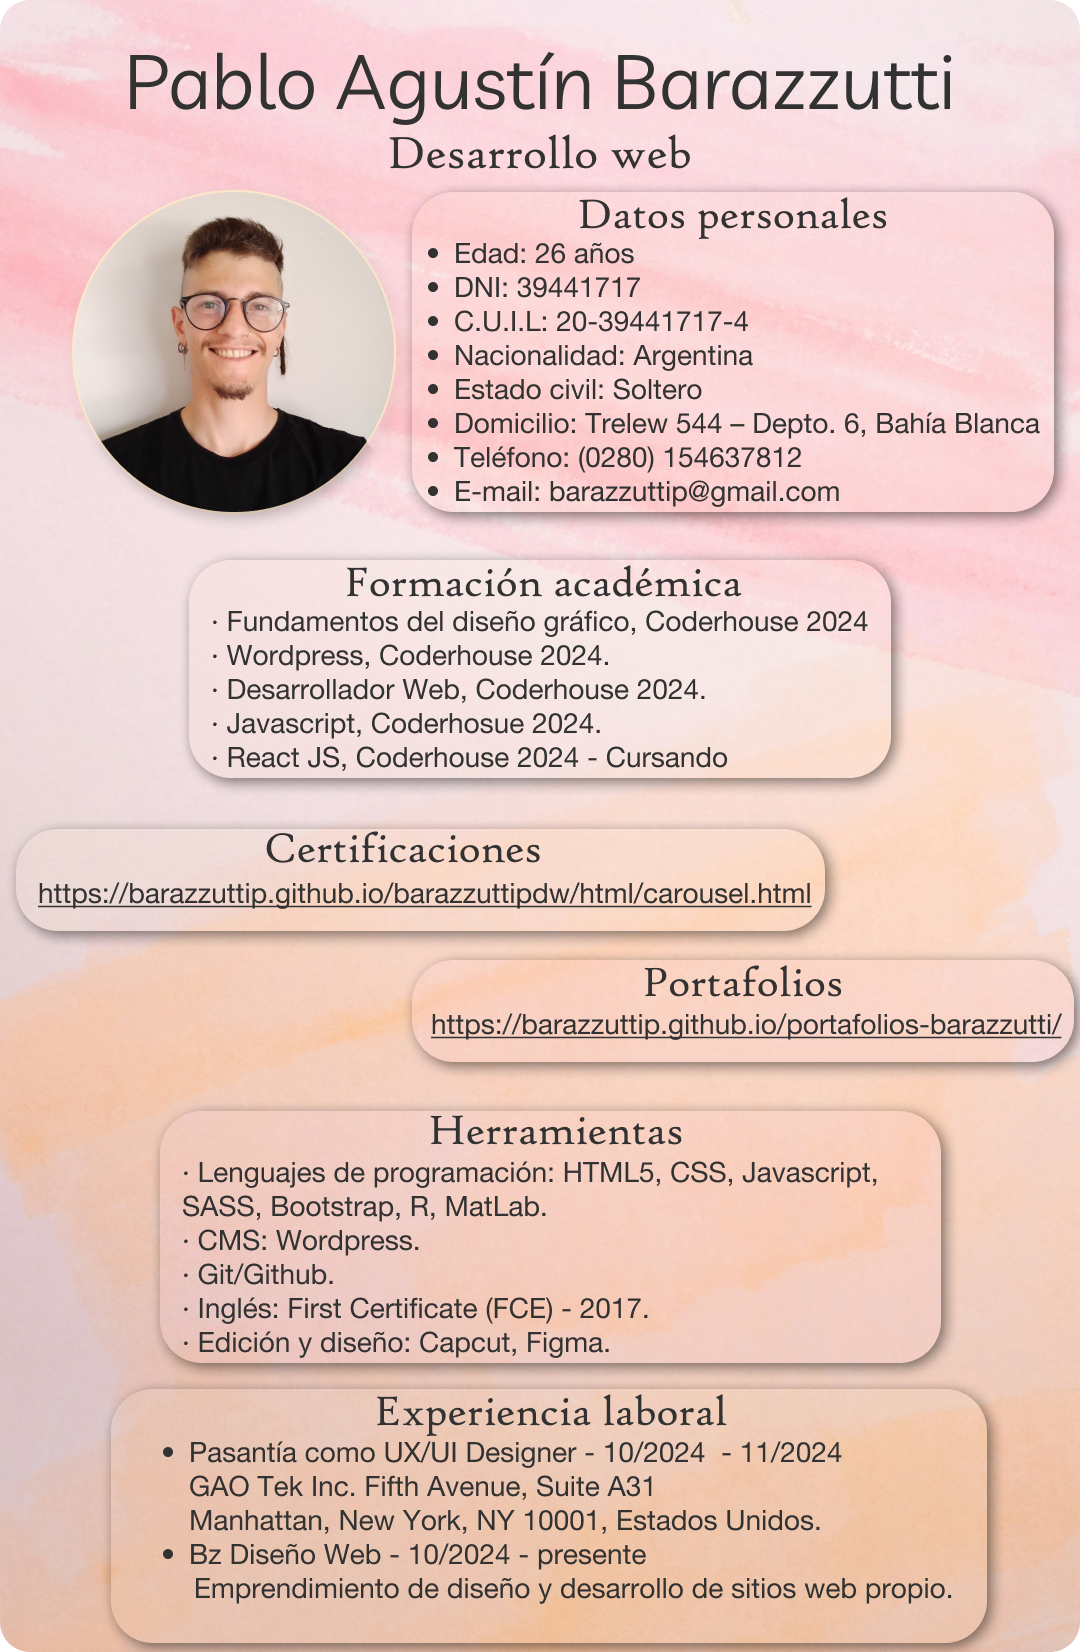
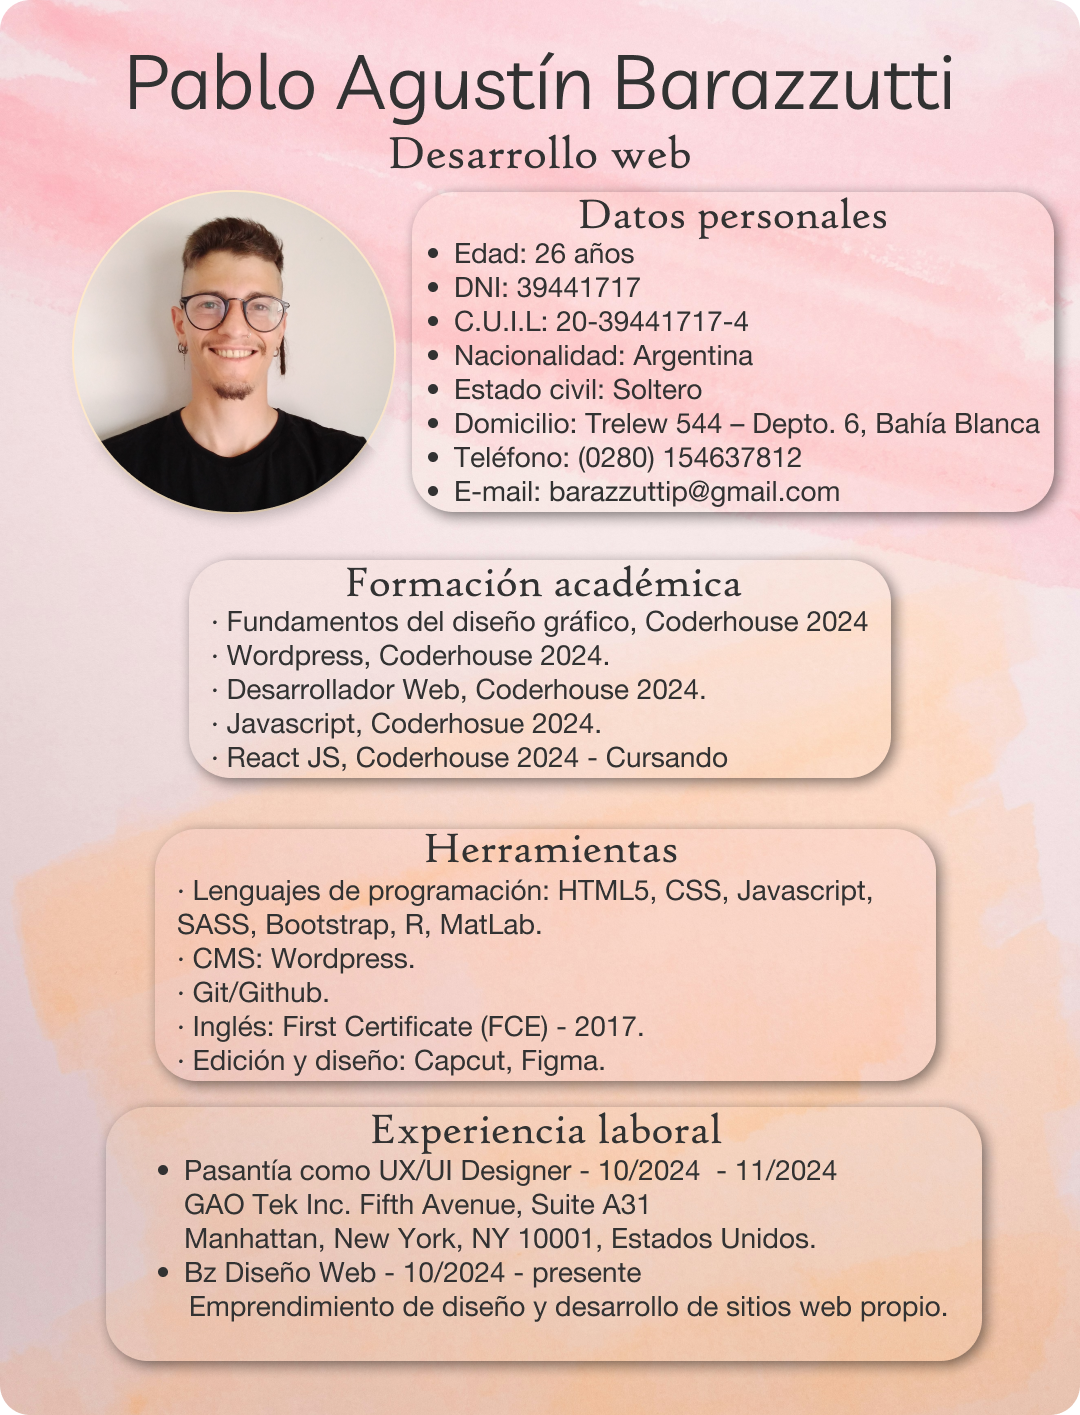
portaf final 27/1

diff --git a/scss/layouts/_body.scss b/scss/layouts/_body.scss
@@ -215,16 +215,32 @@
         object-fit: contain;
     }
 }
+.modal-cont2 {
+    padding: 15px;
+    display: flex;
+    justify-content: center;
+    align-items: center;
+    // background-color: $color;
+    // background-image: linear-gradient(to top, $color, $soft);
+    border-radius: 12px;
+    // width: 256px !important;
+    img {
+        object-fit: contain;
+        width: 35%;
+    }
+}
+
 .acercadecont {
     // margin-top: 54px ;
     display: flex;
-    background-image:linear-gradient(to bottom, $color, #fff);
+    background-image: linear-gradient(to bottom, $color, #fff);
     align-items: center;
     justify-content: center;
     margin-bottom: 24px;
     padding-top: 24px;
     padding-bottom: 48px;
 }
+
 .acerca-cont {
     border-radius: 14px;
     display: flex;
@@ -234,22 +250,26 @@
     padding-top: 54px;
     align-items: center;
     justify-content: center;
-    .acerca-tit{
+
+    .acerca-tit {
         font-family: $PrimaryFont;
         color: $soft;
         font-size: 36px;
         font-weight: 500;
     }
+
     .acerca-txt {
         font-family: $TryFont;
         font-size: 24px;
         font-weight: 400;
         color: $dark;
     }
+
     .acerca-btn-cont {
         display: flex;
         width: 100%;
         justify-content: space-around;
+
         button {
             padding: 4px;
             font-family: $TryFont;
@@ -258,24 +278,32 @@
             box-shadow: 0 4px 12px #000000;
             border-radius: 14px;
         }
-        .btn1{
+
+        .btn1 {
             background-color: $color;
+            // background-image: linear-gradient(to bottom, $color, $soft);
             color: $soft;
             padding-left: 20px;
             padding-right: 20px;
+
             &:hover {
-                background-color: $soft;
-                color: $color;        
+                // background-color: $soft;
+                background-image: linear-gradient(to bottom, $color, $dark);
+                color: $soft;
             }
         }
-        .btn2{
+
+        .btn2 {
             background-color: $soft;
+            // background-image: linear-gradient(to bottom, $color, $soft);
             color: $color;
-            padding-left: 6px;
-            padding-right: 6px;
+            padding-left: 16px;
+            padding-right: 16px;
+
             &:hover {
-                background-color: $color;
-                color: $soft;        
+                // background-color: $color;
+                background-image: linear-gradient(to top, $color, $soft);
+                color: $dark;
             }
         }
     }

diff --git a/css/style.css b/css/style.css
@@ -42,6 +42,8 @@
   transition: background-color 0.5s ease;
   border-radius: 14px;
   padding: 5px;
+  padding-left: 16px;
+  padding-right: 16px;
 }
 .nav-cont ul li a:hover {
   color: #008080;
@@ -242,6 +244,18 @@
   object-fit: contain;
 }
 
+.modal-cont2 {
+  padding: 15px;
+  display: flex;
+  justify-content: center;
+  align-items: center;
+  border-radius: 12px;
+}
+.modal-cont2 img {
+  object-fit: contain;
+  width: 35%;
+}
+
 .acercadecont {
   display: flex;
   background-image: linear-gradient(to bottom, #008080, #fff);
@@ -294,18 +308,18 @@
   padding-right: 20px;
 }
 .acerca-cont .acerca-btn-cont .btn1:hover {
-  background-color: #EBEBEB;
-  color: #008080;
+  background-image: linear-gradient(to bottom, #008080, #303030);
+  color: #EBEBEB;
 }
 .acerca-cont .acerca-btn-cont .btn2 {
   background-color: #EBEBEB;
   color: #008080;
-  padding-left: 6px;
-  padding-right: 6px;
+  padding-left: 16px;
+  padding-right: 16px;
 }
 .acerca-cont .acerca-btn-cont .btn2:hover {
-  background-color: #008080;
-  color: #EBEBEB;
+  background-image: linear-gradient(to top, #008080, #EBEBEB);
+  color: #303030;
 }
 
 .modalBtn {

diff --git a/index.html b/index.html
@@ -103,8 +103,10 @@
                 poder ofrecer un servicio cada vez más completo y profesional.
                 También trabajé en análisis de datos con R, MatLab, y métodos numéricos con Octave. </p>
             <div class="acerca-btn-cont">
-                <a target="_blank" href="html/cv.html"><button class="btn1">CV</button></a>
-                <a target="_blank" href="html/certif.html"><button class="btn2">Certificaciones</button></a>
+                <!-- <a target="_blank" href="html/cv.html"> -->
+                    <button id="btn1" class="btn1">CV</button>
+                <!-- </a> -->
+                <a target="_blank" href="html/certif.html"><button id="btn2" class="btn2">Certificaciones</button></a>
             </div>
         </div>
     </section>

diff --git a/js/app.js b/js/app.js
@@ -8,8 +8,17 @@ const modaldiv = document.getElementById("modal");
 const modalCont = document.getElementById("modalCont");
 const grid = document.getElementById("grid");
 
+const btn1 = document.getElementById("btn1");
+const btn2 = document.getElementById("btn2");
 
-
+const openCV = () => {
+    modaldiv.style.display = "flex";
+    let cv = document.createElement("img");
+    cv.src = "../assets/cv.png";
+    modalCont.className = "modal-cont2"
+    modalCont.append(cv);
+}
+btn1.addEventListener("click", () => openCV());
 
 
 

diff --git a/scss/layouts/_header.scss b/scss/layouts/_header.scss
@@ -35,6 +35,8 @@
                 transition: background-color 0.5s ease;
                 border-radius: 14px;
                 padding: 5px;
+                padding-left: 16px;
+                padding-right: 16px;
                 &:hover{
                     color: $color;
                     background-color: $soft;
